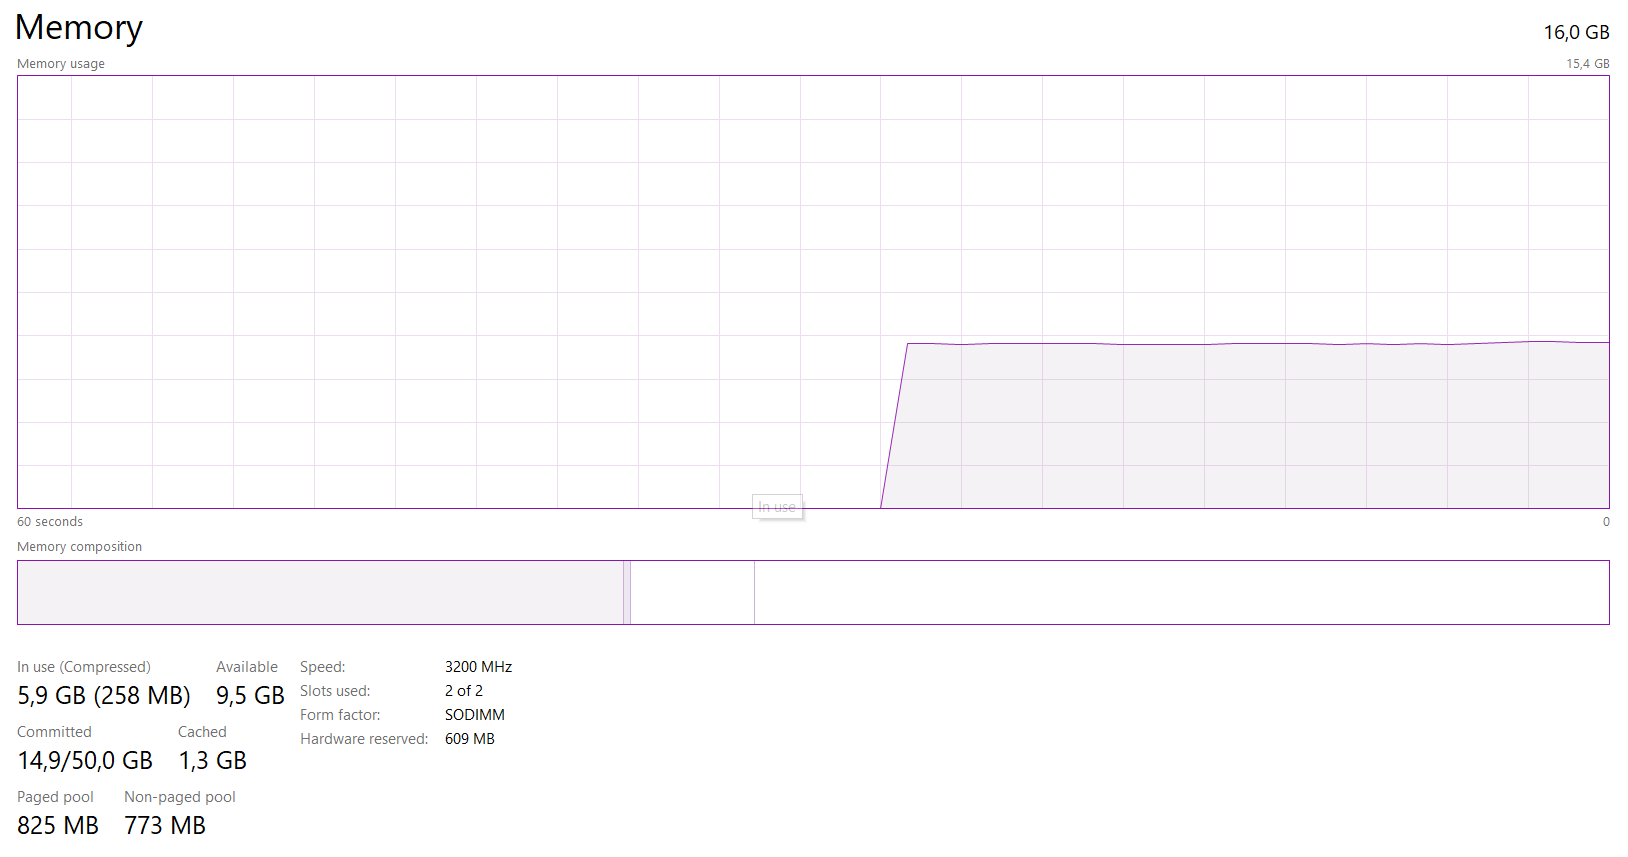
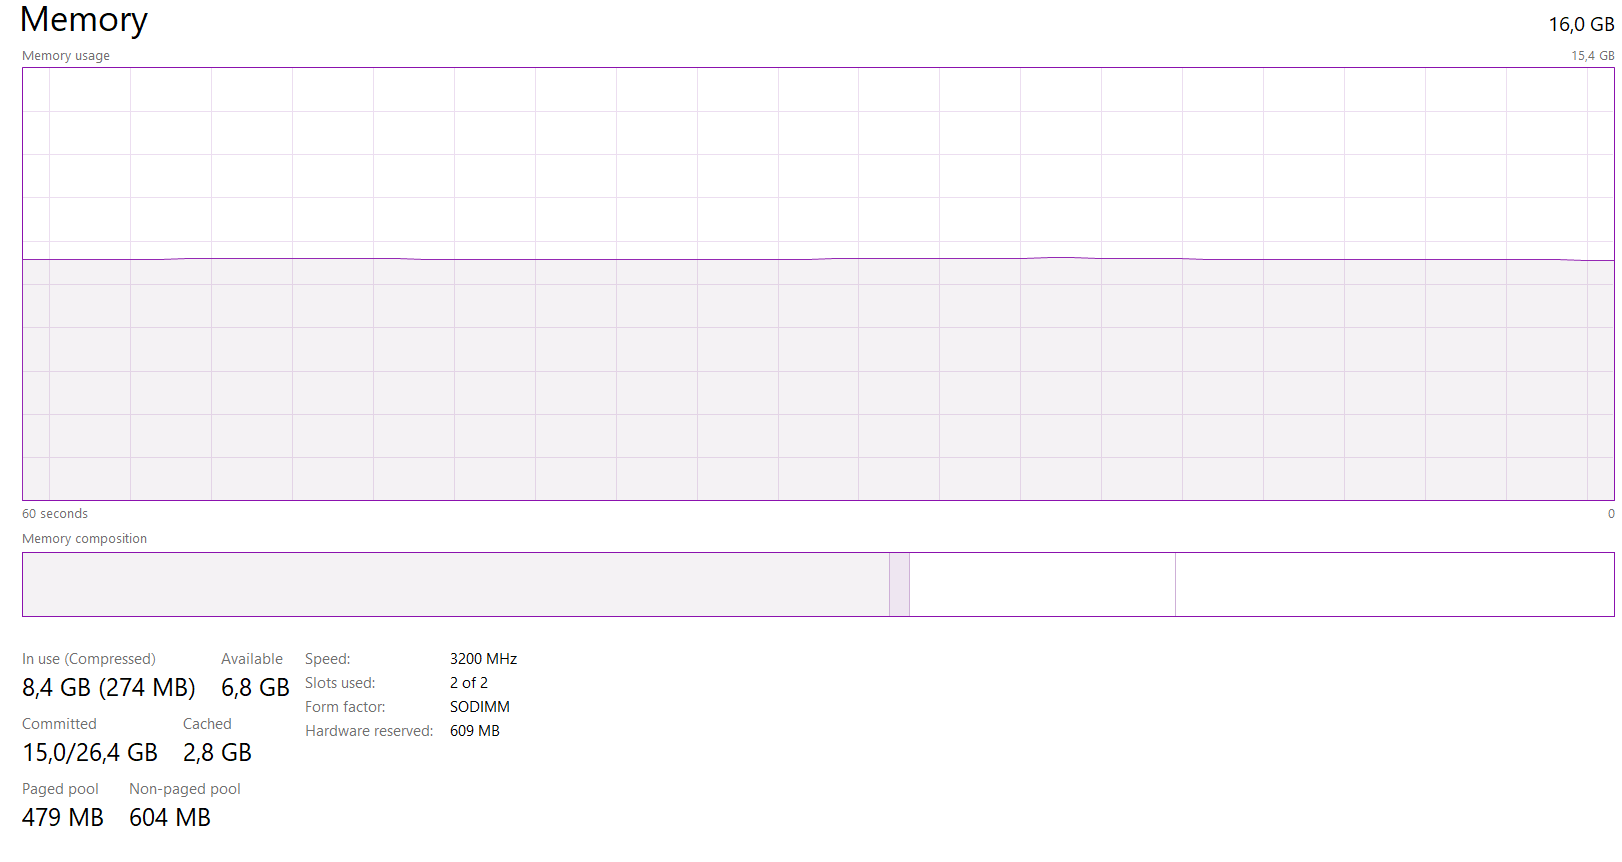
last commit

diff --git a/Tugas2_2110131210018_Tio Ezekiel.md b/Tugas2_2110131210018_Tio Ezekiel.md
@@ -11,33 +11,107 @@
 - Menyediakan mekanisme yang dibutuhkan untuk proses dari komunikasi.
 - Menyediakan mekanisme yang dibutuhkan untuk proses penanganan pada deadlock.
 
- <p align="center"><img src="img/task_manager.png" width="35%" alt="gambar task manager"></p>
+<p align="center"><img src="img/task_manager.png" width="35%" alt="gambar task manager"></p>
 
 Gambar task manager di atas diambil dari laptop saya dan terlihat aplikasi yang sedang dibuka ada 5. Terlihat bahwa ada manajemen sumber daya yang dilakukan. Seperti berapa banyak persentase CPU, memory, disk yang dialokasikan untuk menjalankan aplikasi yang sedang terbuka tersebut. 
  
 
 <h2>2. Manajemen Memori Utama</h2>
 
-Memori utama juga sering disebut juga dengan memoriyaitu suatu array yang besar dari byte, dan ukurannya dapat mencapai ratusan, ribuan dan juga jutaan. Setiap byte memiliki alamatnya tersendiri.
+Memori utama juga sering disebut juga dengan RAM atau memori yaitu suatu array yang besar dari byte, dan ukurannya dapat mencapai ratusan, ribuan dan juga jutaan. Setiap byte memiliki alamatnya tersendiri.
 
 Memori tersebut juga memiliki fungsi yaitu untuk menjadi tempat dari penyimpanan yang suatu akses datanya dapat digunakan oleh sebuah CPU maupun perangkat input dan output. Memori ini juga termasuk sebagai tempat penyimpanan yang volatile atau sementara. Hal itu berarti datanya dapat hilang pada saat sistemnya dimatikan.
-
-<p align="center"><img src="img/Task_Manager_RAM.png" alt="gambar task manager ram" width=45%></p>
 
 Tanggung jawab sistem operasi pada manajemen memori yaitu:
 - Dapat memilih program yang hendak di load ke dalam memori.
 - Dapat mengalokasikan dan juga mengdealokasikan ruang memorinya yang disesuaikan degan kebutuhan.
 - Dapat menjaga track dari memori yang tengah digunakan dan siapapun yang dapat menggunakannya.
 
-<h2>3. Manajemen Secondary Memory</h2>
+<p align="center"><img src="img/task_manager_RAM.png" width="45%" alt="gambar task manager"></p>
 
-Data yang sudah disimpan kedalam memori utama memiliki sifat yang sementara dan juga jumlahnya dangatlah kecil. Maka dari itu, Untuk dapat menyimpan seluruh data dan juga program yang ada di komputer sangat dibutuhkan secondary-storage.
+Gambar di atas diambil dari tab performance di task manager. Terdapat informasi secara grafik maupun tertulis penggunaannya di situ.
 
-Dimana secondary-storage tersebut memiliki sifat yang permanen dan juga dapat menampung banyaknya data. Contoh dari secondary-storage yaitu seperti HDD, SSD, dan lain sebagainya.
+Terlihat bahwa RAM digunakan sebesar 8,4gb, tersedia 6,8gb, slot ram digunakan 2 dari 2, kecepatan RAM 3200mhz dan masih banyak lagi yang lainnya.
+
+<h2>3. Manajemen Sistem I/O</h2>
+
+Managemen sistem Input dan output juga sering disebut dengan device manager. Hal ini juga akan menyediakan device driver yang biasa, yang mana nantinya operasi input dan output bisa seragam (membaca, membuka, menulis maupun menutup).
+
+Contohnya yaitu pengguna dapat menggunakan operasi yang sama tersebut  untuk membaca suatu berkas yang ada pada hard disk, floppy disk, dan juga CD-ROM. Komponen pada manajemen sistem I/O ini yaitu :
+
+- Spooling, hal ini dapat melakukan penjadwalan dari pemakaian sistem input maupun output agar dapat lebih efisien dan juga efektif.
+- Buffer, hal ini dapat menampung sementara sejumlah data dari dan juga ke dalam perangkat input maupun output.
+- Menyediakan suatu driver yang bisa melakukan operasi yang rinci untuk suatu hardware I/O tertentu.
 
 
-<p align="center"><img src="img/Task_Manager_Disk.png" width=45% alt="gambar task manager bagian disk"></p>
+<p align="center"><img src="img/device_manager.png" height=400px alt="gambar device manager"></p>
 
-Sistem operasi juga akan bertanggungjawab pada aktivitas yang berkaitan erat dengan disk managemen. Contohnya seperti alokasi penyimpanan, penjadwalan disk, dan juga free-space management.
+Terlihat pada screenshot device manager dari laptop saya di atas terdapat beberapa perangkat Input Output yang terhubung dengan 
 
 ><h1>Layanan Sistem Operasi</h1>
+
+<h2>1. Manipulasi Sistem Berkas</h2>
+
+Salah satu layanan yang diberikan oleh sistem operasi adalah memanipulasi sistem berkas. Hal ini dapat dilakukan dengan File Explorer.
+
+Dari File Explorer kita dapat memilih bagaimana ingin menggunakan berkas-berkas yang ada pada komputer. Sebagai contoh adalah dengan membuat sebuah folder. 
+
+Berikut adalah contoh memanipulasi berkas dengan menggunakan File Explorer untuk membuat sebuah folder baru:
+
+<p align="center"><img src="img/new_folder1.png" alt="gambar membuat folder baru" width=65%></p>
+
+
+1. Klik kanan pada area kosong.
+<p align="center"><img src="img/new_folder2.png" alt="gambar membuat folder baru" width=65%></p>
+
+
+2. Arahkan cursor mouse ke tulisan New.
+<p align="center"><img src="img/new_folder3.png" alt="gambar membuat folder baru" width=65%></p>
+
+
+3. Pilih folder.
+<p align="center"><img src="img/new_folder4.png" alt="gambar membuat folder baru" width=65%></p>
+
+
+4. Beri nama folder. Folder pun berhasil dibuat.
+
+<h2>2. Deteksi dan Pemberian Tanggapan Pada Kesalahan</h2>
+
+Kegunaannya adalah untuk menjaga kestabilan sistem dengan mendeteksi "error", perangkat keras maupun operasi yang dilakukan.
+
+Jika muncul permasalahan pada sistem komputer maka sistem operasi harus memberikan tanggapan yang menjelaskan kesalahan yang terjadi serta dampaknya terhadap aplikasi yang sedang berjalan.
+
+<p align="center"><img src="img/troubleshoot.png" alt="gambar membuat folder baru" width=65%></p>
+
+Screenshot di atas diambil dari setting bagian troubleshoot. Apabila kita mendapat ada masalah pada perangkat maupun sistem, kita dapat melakukan troubleshoot. Troubleshooter akan mendeteksi masalah dan akan memberi opsi untuk memperbaikinya atau bahkan saran yang dapat kita lakukan untuk membantu ktia dalam mengatasi masalah.
+
+Apabila masalah tidak dapat diselesaikan, troubleshooter biasanya akan mengarahkan untuk mencari solusi online.
+
+<h2>3. Operasi Masukan/Keluaran</h2>
+
+Operasi perangkat masukan/keluaran merupakan aspek perancangan sistem operasi terluas dan kompleks karena sangat beragamnya perangkat dan aplikasinya.
+
+Salah satu kelompok perangkat I/O adalah yang beraliran data yang berorientasi aliran karakter. Yaitu perangkat yang menerima, dan mengirimkan aliran karakter tanpa
+membentuk suatu struktur blok. Contohnya adalah **printer**.
+
+<p align="center"><img src="img/print.png" alt="gambar print  di ms word" width=65%></p>
+
+><h1>System Call</h1>
+
+Secara singkat system call atau syscall adalah sebuah instruksi, mirip dengan instruksi "add" atau "jump". Pada tingkat tinggi, sebuah system call adalah cara sebuah program pada level user untuk meminta pada sistem operasi untuk menjalankan sesuatu untuknya. Jika kita seorang programmer, dan kita membutuhkkan untuk membaca dari sebuah file, kita akan menggunakan system call untuk meminta sistem operasi untuk membaca file tersebut untuk kita.
+
+Cara system call bekerja adalah sebagai berikut. Pertama-tama, user program akan mensetup argument untuk system call. Salah satu argumen adalah nomor system call. Perlu di catat bahwa semua ini dilakukan secara automatis oleh fungsi library kecuali jika kita menulis menggunakan bahasa assembler. Sesudah semua argumen di setup, program akan menjalankan instruksi "system call". Instruksi ini akan menyebabkan exception: event yang akan menyebabkan processor untuk jump ke satu address dan mulai menjalankan program / code di address tersebut.
+
+Instruksi di alamat yang baru akan menyimpan state user program, menentukan sistem call apa yang kita inginkan, kemudian call fuction tersebut di kernel yang mengimplementasikan system call, setelah selesai maka mengembalikan program state, dan kembali ke user program. Sebuah system call adalah salah satu cara agar function yang di definisikan dalam device driver untuk bisa di panggil.
+
+MS-DOS adalah contoh dari sistem single-tasking. MS-DOS menggunakan metoda yang sederhana dalam menjalankan program aan tidak menciptakan proses baru. Program di-load ke dalam memori, kemudian program dijalankan. 
+
+Contoh sederhana penggunaan command line dengan sebuah command:
+
+<p align="center"><img src="img/cmd.png" alt="gambar print  di ms word" width=65%></p>
+
+Dengan command 
+```
+chkdsk
+```
+, maka akan dilakukan pengecekan terhadap penyimpanan oleh sistem operasi untuk mendeteksi error/masalah pada file sistem. Pada screenshot di atas tertulis bahwa tidak ditemukan adanya masalah.
